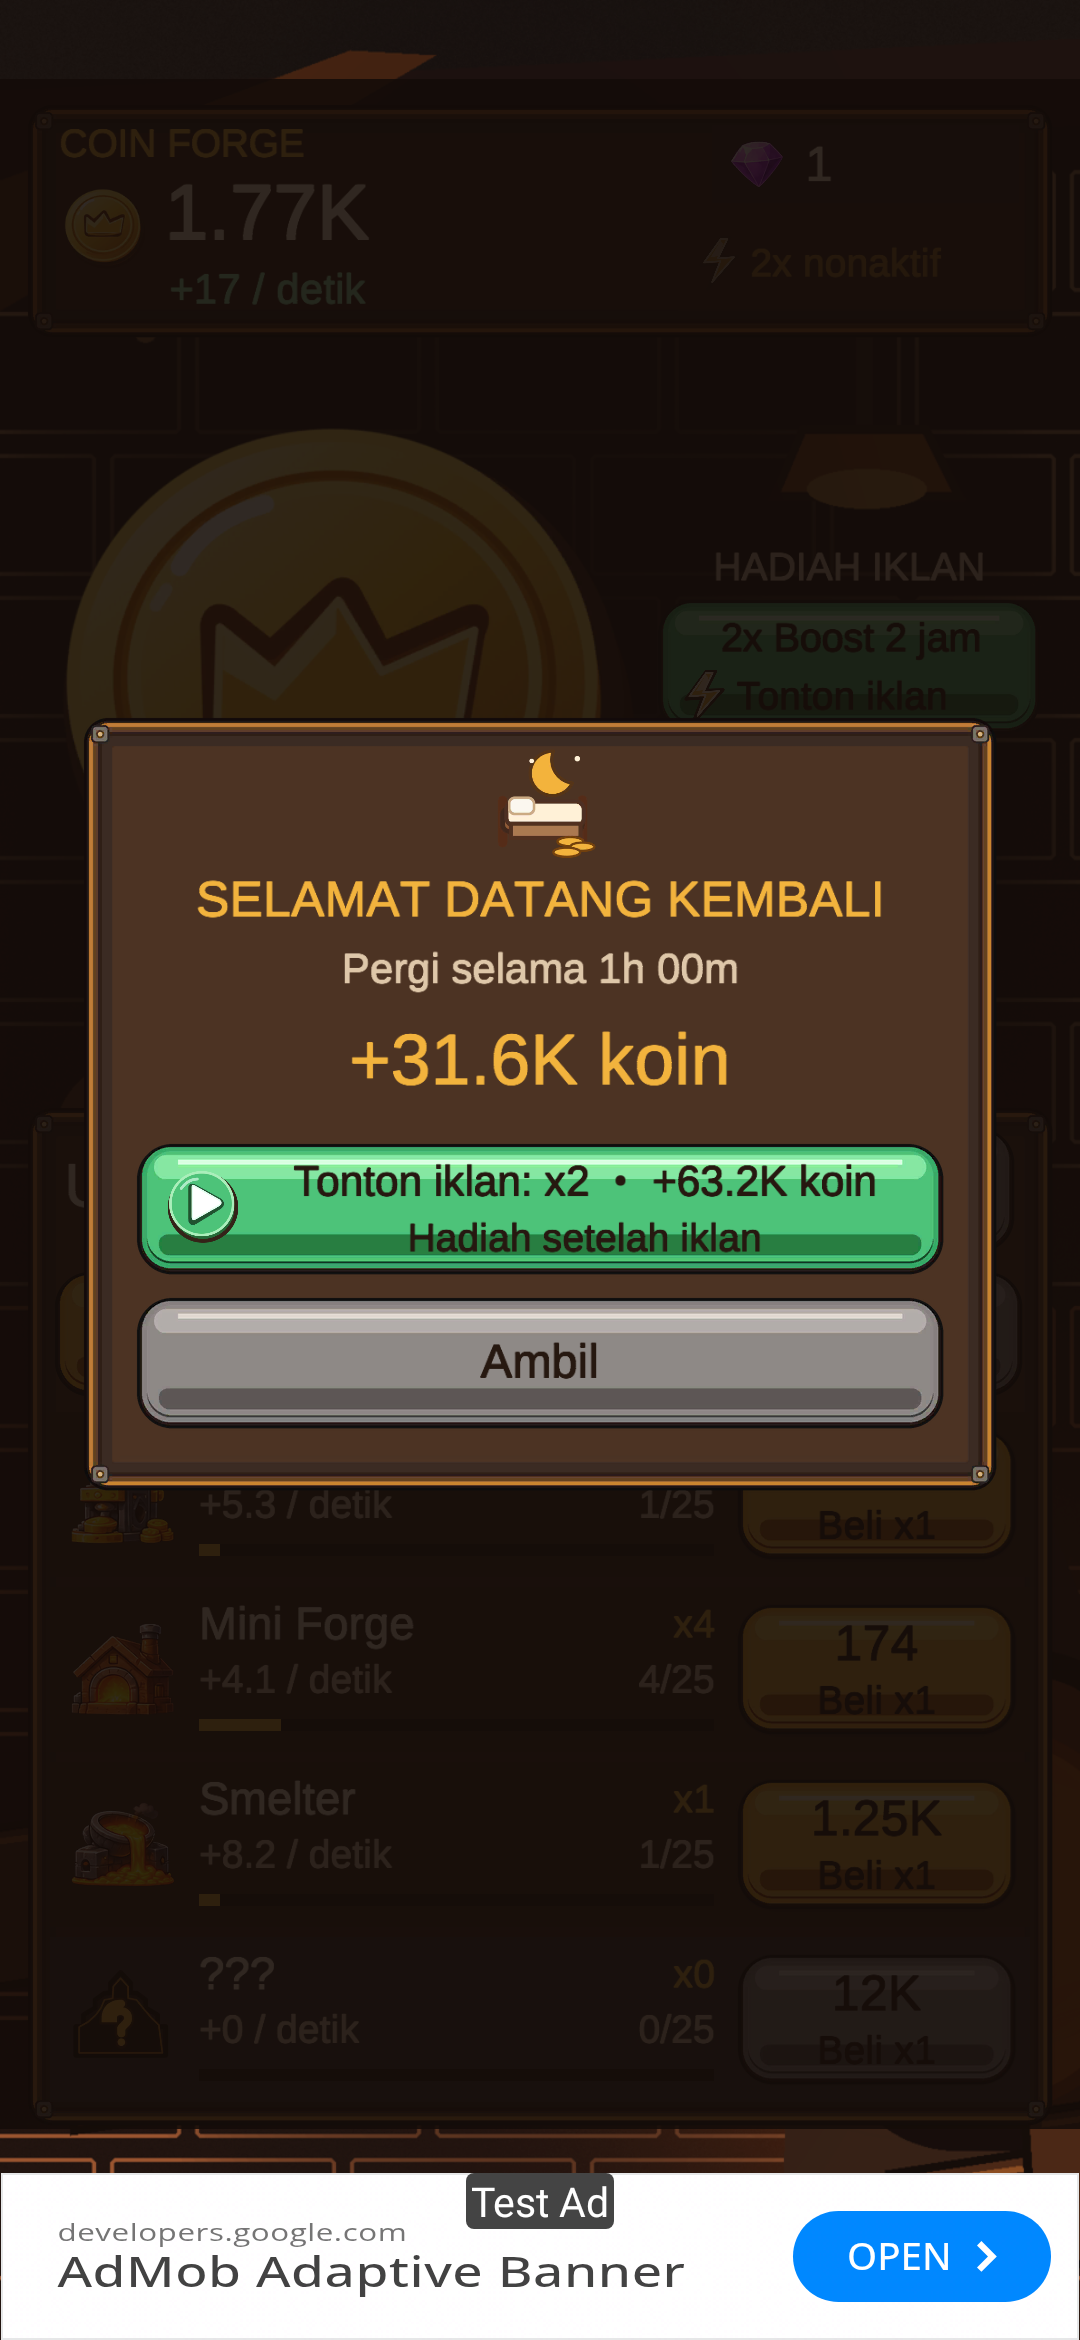
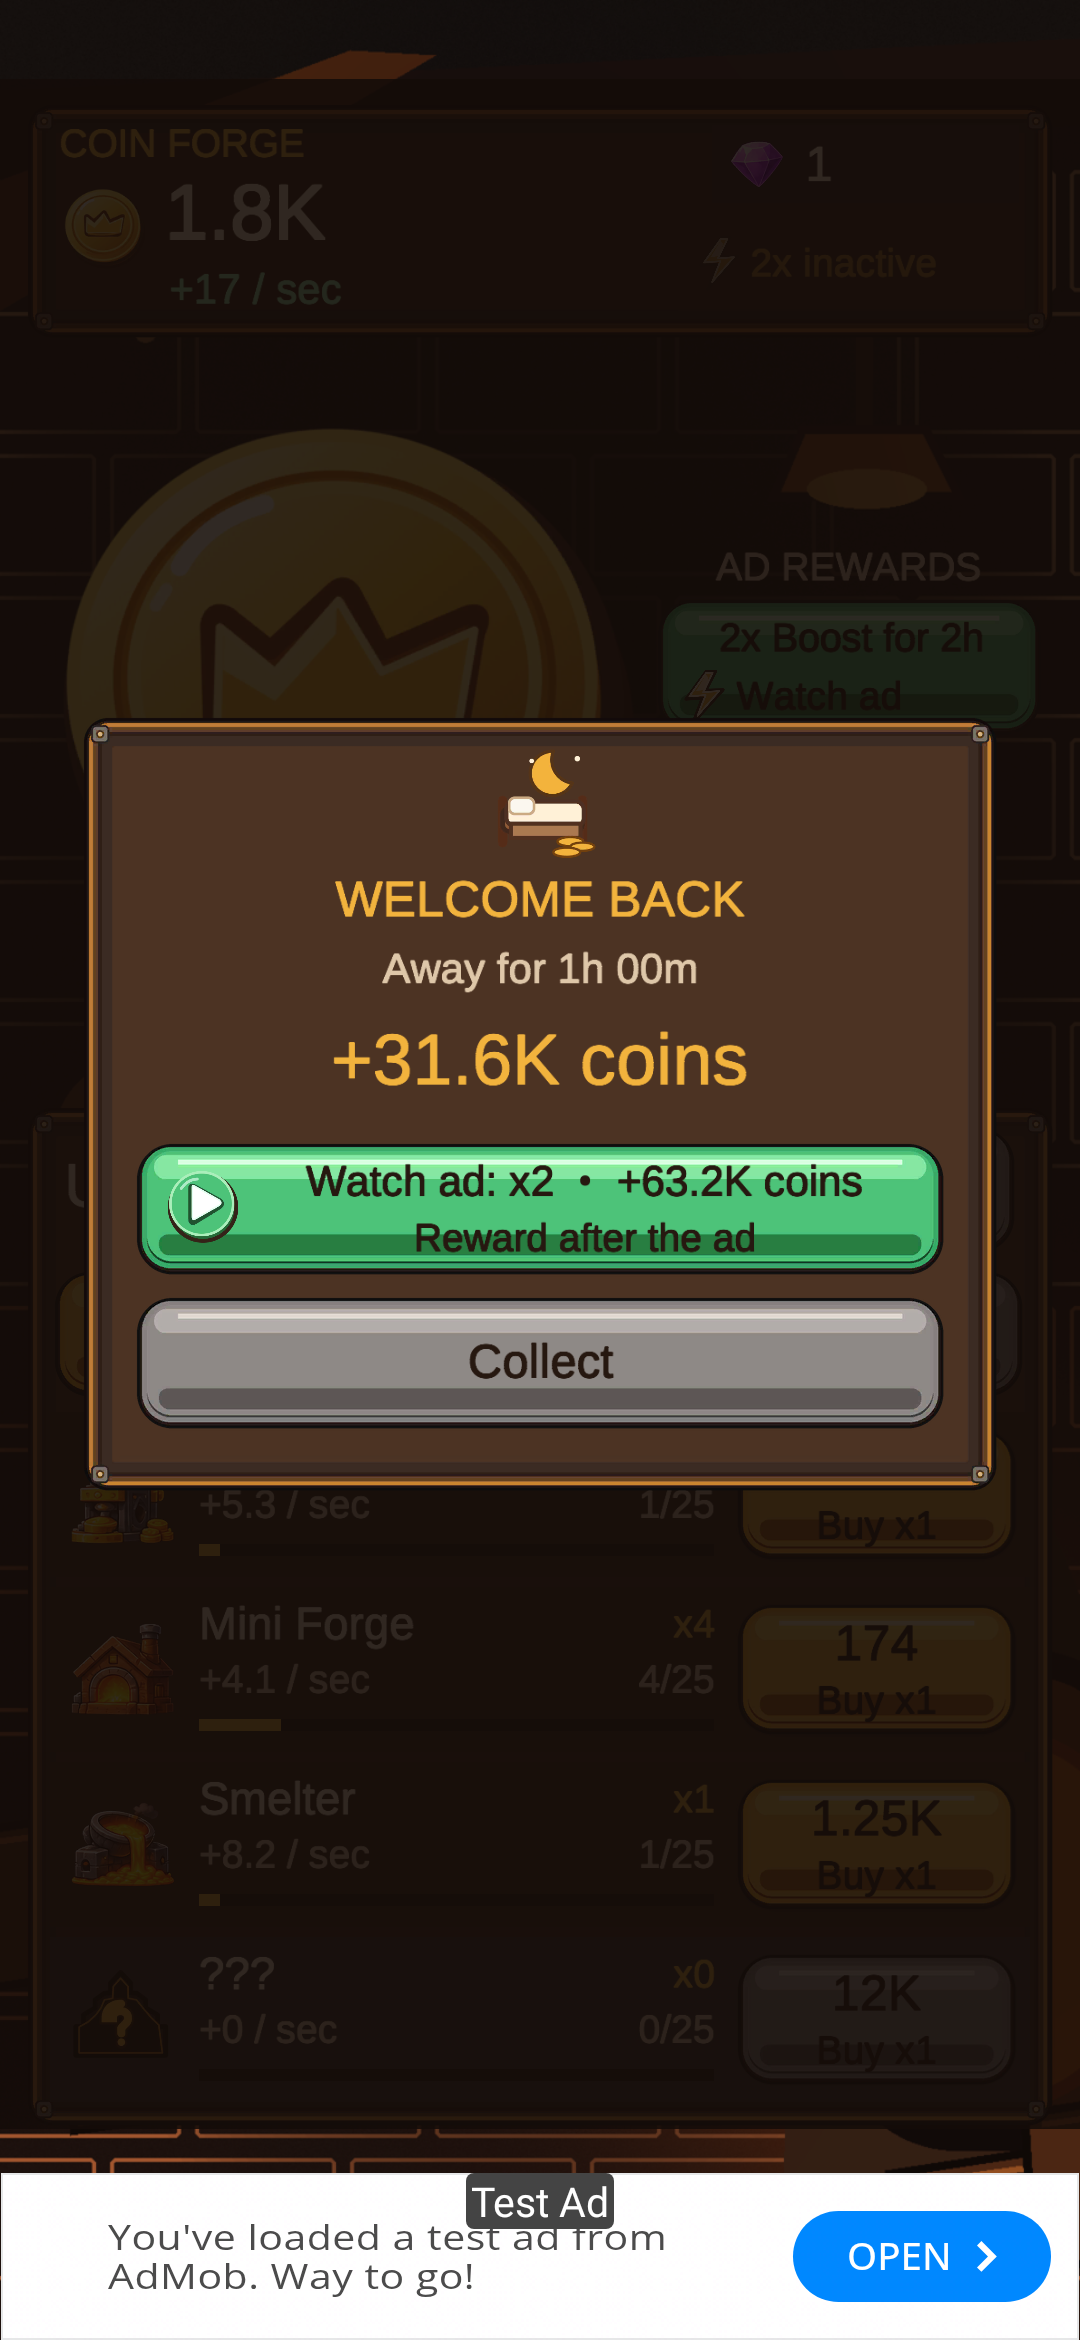
IC-02 verify English UI and record Redmi performance

diff --git a/Docs/IC-02/README.md b/Docs/IC-02/README.md
@@ -1,19 +1,19 @@
 # IC-02 · Coin Forge
 
-## Integrasi Unity
+## Unity integration
 
-- `Assets/Scenes/Main.unity` memakai `Assets/Prefabs/CoinForgeUI.prefab`.
-- `CoinForgeUI.cs` menangani event, aksi, harga, popup, dan statistik. `CoinForgeUI.View.cs` membangun tampilan dan menyesuaikan safe area. `CoinForgeUI.Tap.cs` menangani scale punch, flipbook, dan pool 20 label.
-- `Assets/Editor/CoinForgeSetup.cs` memasang prefab yang sama saat membuat ulang Main.
-- Panel upgrade dan shield popup berbagi batas bawah. Insets mengikuti safe area, tinggi banner runtime, dan jarak 16dp. Selagi tinggi runtime belum tersedia, acuan 167px diskalakan terhadap lebar 1080px.
-- Panel memakai border 32px pada keempat sisi. Tombol memakai 48px kiri dan kanan serta 40px atas dan bawah. Keduanya menggunakan `Image.Type.Sliced`.
-- UI memakai font runtime bawaan Unity dengan gaya tebal. Ukuran sentuh dan ukuran teks minimum mengikuti density dan scaled density Android.
+- `Assets/Scenes/Main.unity` uses `Assets/Prefabs/CoinForgeUI.prefab` with the 1080×1920 Canvas Scaler and a 0.5 match.
+- `CoinForgeUI.cs` handles events, actions, prices, dialogs, and stats. `CoinForgeUI.View.cs` builds the view and applies safe area and banner insets. `CoinForgeUI.Tap.cs` handles the scale punch, 8-frame coin burst, 6-frame sparkle, and 20-label pool.
+- `Assets/Editor/CoinForgeSetup.cs` installs the same prefab when it recreates Main.
+- The upgrade panel and popup shield share a lower edge. The layout reads the runtime banner height and adds 16dp. Before that height is available, it scales the 167px reference from a 1080px screen.
+- Panel borders are 32px on each side. Button borders are 48px left and right and 40px top and bottom. Both use `Image.Type.Sliced`.
+- The English UI uses Unity’s built-in font in bold. Minimum touch and text sizes follow Android density and scaled density.
 
-## Slot IC-03
+## IC-03 asset slots
 
-Nama objek Image mengikuti nama PNG. Batas impor adalah dimensi maksimum Android.
+Image object names match the PNG filenames. The import limit is the maximum Android texture dimension.
 
-| Slot PNG | Sumber | Batas impor |
+| PNG slot | Source size | Import limit |
 | --- | --- | --- |
 | `bld_01_coin_press.png`, `bld_02_mini_forge.png`, `bld_03_smelter.png`, `bld_04_foundry.png`, `bld_05_mint.png`, `bld_06_vault.png`, `bld_07_bank.png`, `bld_08_exchange.png`, `bld_09_treasury.png`, `bld_10_galaxy_mint.png`, `bld_locked.png` | 512×512 | 256 |
 | `coin_icon.png`, `gem_icon.png` | 128×128 | 128 |
@@ -22,29 +22,29 @@ Nama objek Image mengikuti nama PNG. Batas impor adalah dimensi maksimum Android
 | `bg_main.png` | 1080×2340 | 2048 |
 | `panel_frame.png` | 512×512 | 512 |
 | `btn_gold.png`, `btn_gray.png`, `btn_green.png` | 512×160 | 512 |
-| `vfx_coin_burst_01.png` hingga `vfx_coin_burst_08.png` | 256×256 per frame | 256 |
-| `vfx_sparkle_01.png` hingga `vfx_sparkle_06.png` | 256×256 per frame | 256 |
+| `vfx_coin_burst_01.png` through `vfx_coin_burst_08.png` | 256×256 per frame | 256 |
+| `vfx_sparkle_01.png` through `vfx_sparkle_06.png` | 256×256 per frame | 256 |
 
-Aset toko yang diimpor terdiri dari `app_icon_512.png` (512×512) dan `feature_graphic.png` (1024×500).
+Store assets imported with IC-03 include `app_icon_512.png` (512×512) and `feature_graphic.png` (1024×500).
 
-## Catatan PM
+## Verification
 
-- IC-01 belum menyimpan durasi main. Statistik mulai mengakumulasi waktu foreground sejak IC-02 dalam kunci PlayerPrefs UI tersendiri.
-- IC-01 menyediakan tinggi banner melalui getter. UI membaca perubahan pada tick koin dan saat ukuran Canvas berubah.
-- Durasi offline yang ditampilkan berasal dari `OfflineEarned` dan mengikuti batas waktu yang dihitung IC-01.
-- Rumus harga, hadiah, pembelian, dan Prestige memakai API IC-01. Kode inti tidak berubah.
+The Android development APK built in Unity 6000.3.27f1. Play Mode passed 18 checks. The Redmi also passed checks for x1, x10, and Max prices and availability, purchase, Stats, and Prestige. Collect dismissed Welcome Back and credited coins. The device showed Time Warp and its reward when rewarded ads were ready and the purchase ETA exceeded 180 seconds. A separate fixture with an affordable purchase kept Time Warp hidden.
 
-## Verifikasi
-
-Unity 6000.3.27f1 berhasil membangun APK development Android. Play Mode lulus 18 pemeriksaan, termasuk harga dan ketersediaan x1, x10, dan Max, pembelian, Welcome Back dan klaim offline, Statistik, konfirmasi Prestige, serta tampilan dan nilai Time Warp sesuai kondisi siap dan batas 180 detik. Saat rewarded belum siap, tombol Boost nonaktif dengan label “Memuat…” dan Time Warp tersembunyi.
-
-| Tangkapan layar Redmi Note 7 | Resolusi | Kondisi |
+| Redmi Note 7 screenshot | Resolution | Display mode |
 | --- | --- | --- |
-| [16:9](16x9.png) | 1080×1920 | Override ukuran layar, rewarded sedang dimuat |
-| [19.5:9](19.5x9.png) | 1080×2340 | Ukuran fisik dengan notch dan banner uji aktif |
-| [20:9](20x9.png) | 1080×2400 | Override ukuran layar dengan banner uji aktif |
-| [Welcome Back di atas banner](welcome-banner.png) | 1080×2340 | Banner uji AdMob aktif di bawah popup |
+| [16:9](16x9.png) | 1080×1920 | Temporary display override |
+| [19.5:9](19.5x9.png) | 1080×2340 | Physical display with notch |
+| [20:9](20x9.png) | 1080×2400 | Temporary display override |
+| [Welcome Back and native test banner](welcome-banner.png) | 1080×2340 | Native AdMob banner beneath the popup |
 
-Pada resolusi fisik, Unity melaporkan safe area dengan inset atas 79px dan AdMob melaporkan tinggi banner 167px. Pada density 440dpi, batas panel menyisakan 44px atau 16dp di atas banner. Klaim lewat tombol Ambil menutup popup dan menambah koin. Time Warp terlihat saat rewarded siap dan ETA melebihi 180 detik, lalu tersembunyi pada skenario dengan pembelian terjangkau.
+Unity reported a 79px top safe-area inset on the physical display. The native banner measured 167px. At 440dpi the layout reserves 44px, or 16dp, above it. Editor QA also exercised a simulated punch-hole inset.
 
-Pengukuran awal development build pada 1080×2340 mencatat 35,7 FPS saat diam dan 33,3 FPS saat 96 tap dalam delapan detik. P95 waktu frame sekitar 50 ms. Selama kedua sampel tidak tercatat koleksi GC, dan P95 alokasi per frame tetap 218 B. Target 60 FPS belum tercapai pada sampel ini.
+The initial native-resolution development build averaged 35.73 FPS idle and 33.34 FPS during fast taps. The rendering pass reduced fullscreen layers, simplified the scene camera, and isolated the HUD and tap animation from the main Canvas. The final English development build measured 47.69 FPS idle and 49.08 FPS during 96 taps in eight seconds at 1080×2340 with the banner active. P95 frame time was 50.01 ms in both samples. P95 GC allocation was 218 B per frame, and neither sample recorded a collection. The target of a sustained 60 FPS remains unmet on this Redmi. Lower-resolution diagnostic runs stayed around 50 FPS, so the project uses native resolution.
+
+## Data notes
+
+- IC-01 has no stored play time. The UI records foreground time from IC-02 onward in a separate PlayerPrefs key.
+- The UI reads the banner getter on the coin heartbeat and when the Canvas dimensions change.
+- The displayed offline duration comes from `OfflineEarned` and follows the IC-01 cap.
+- Pricing, rewards, purchases, and Prestige continue to use the IC-01 APIs. The six core scripts match baseline `cc3eb74`.
